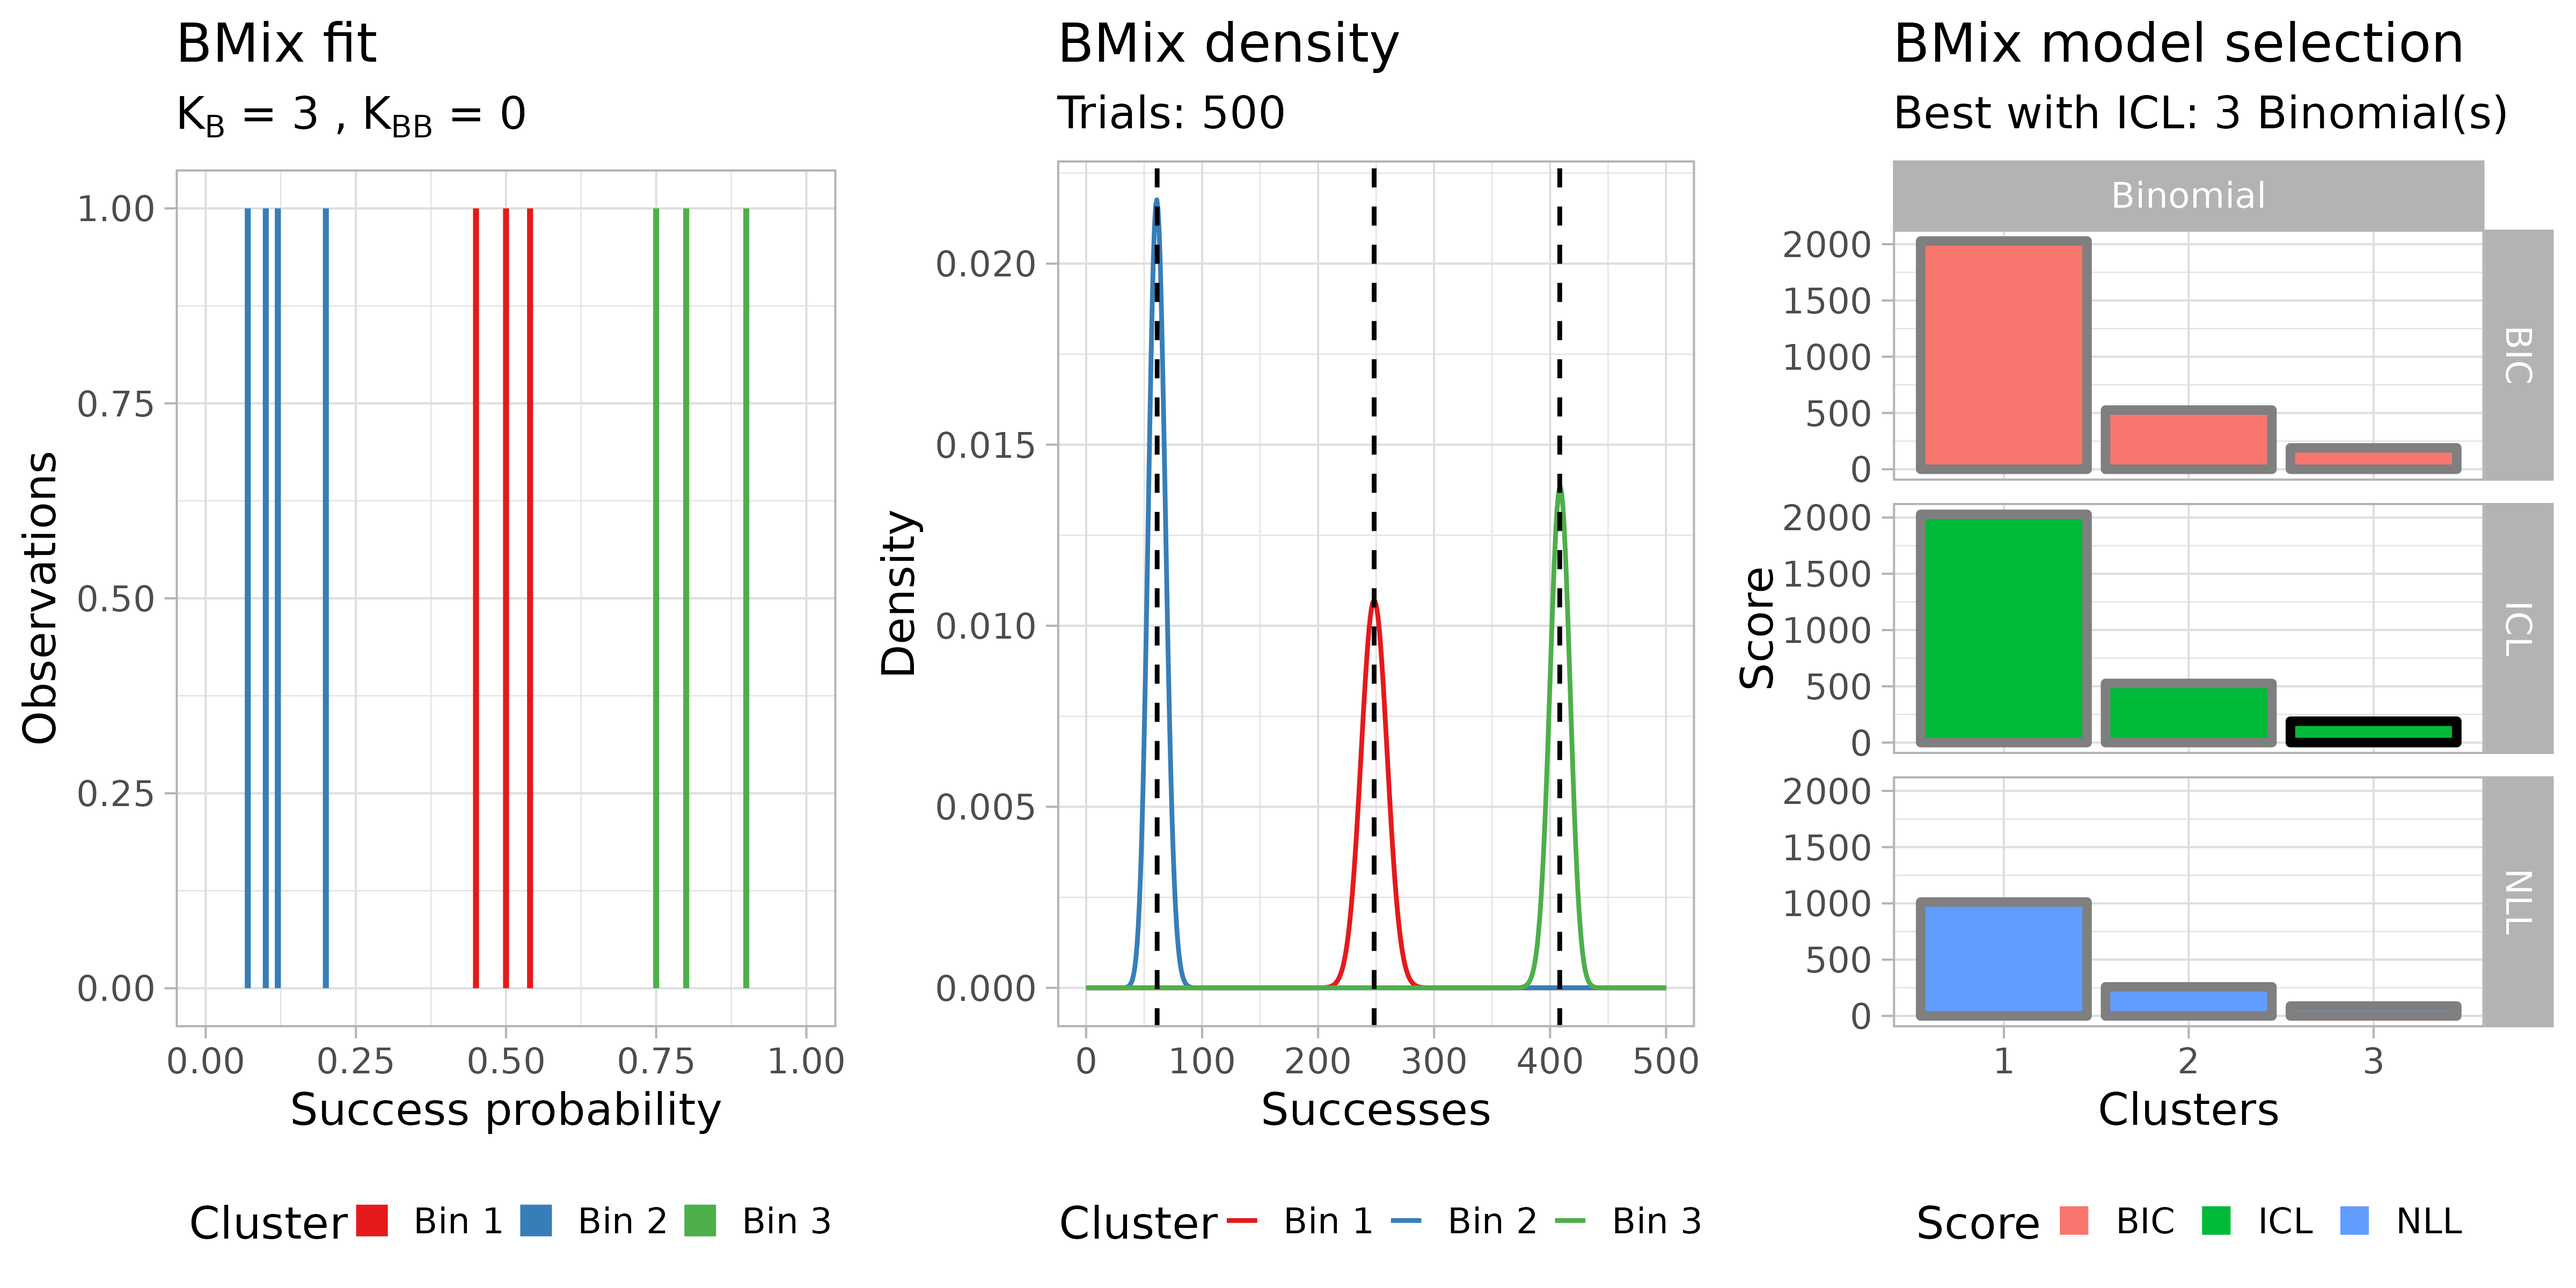
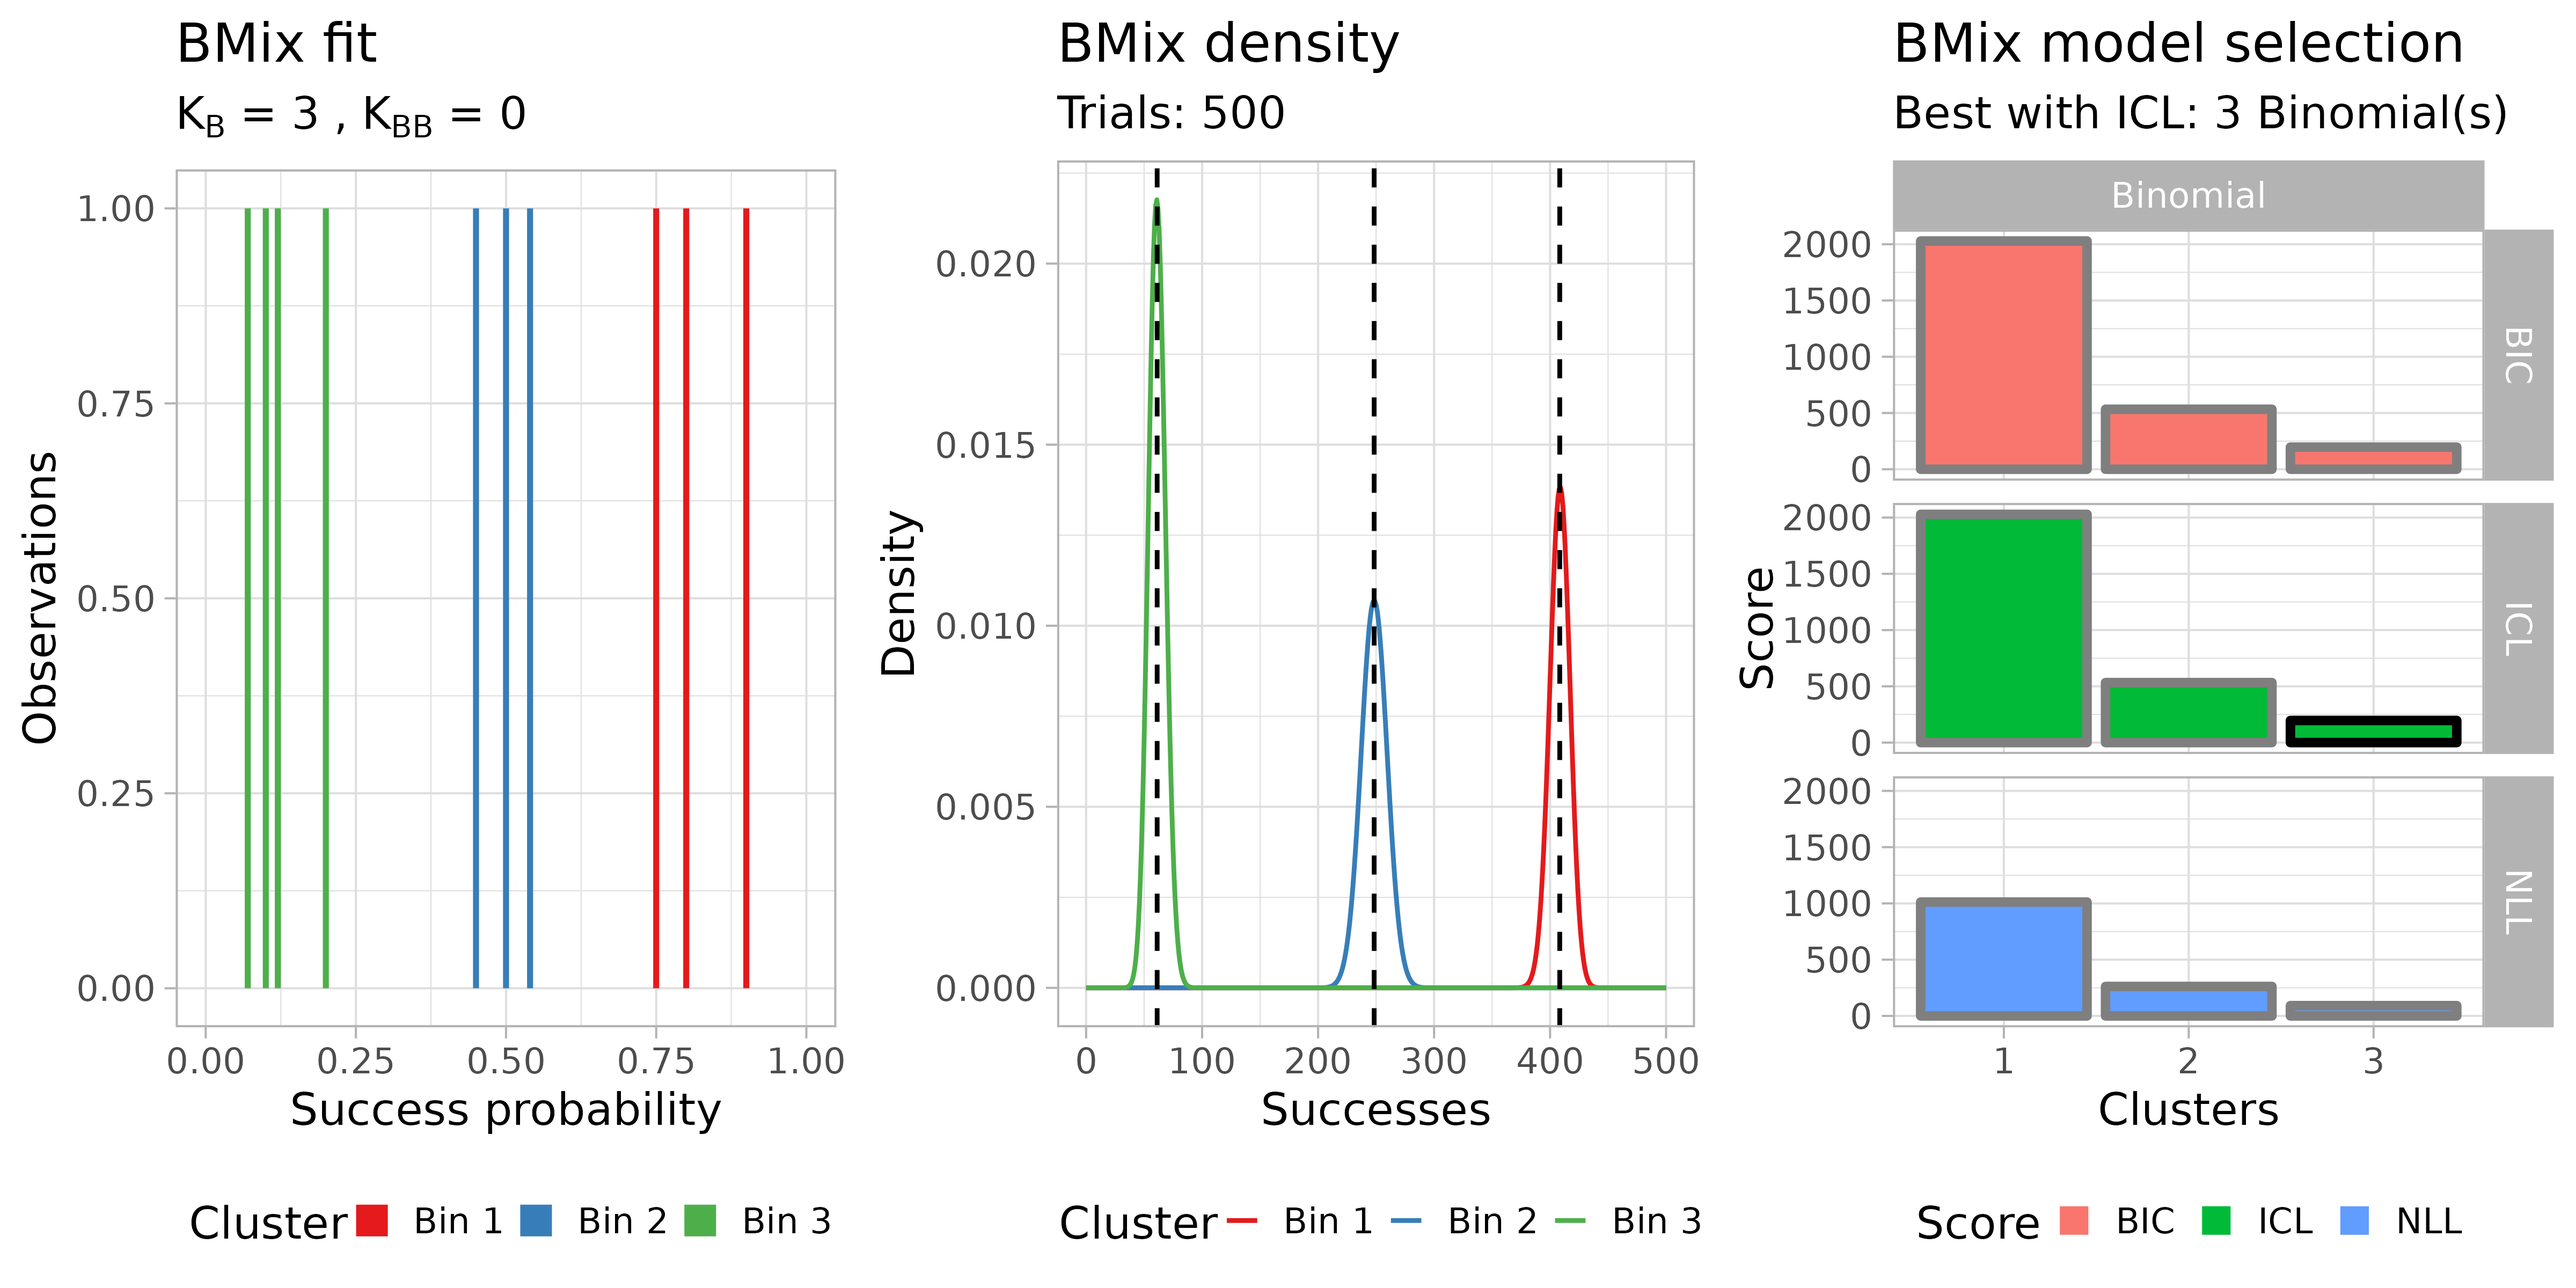
Deploying to gh-pages from @ caravagnalab/TAPACLOTH@d038066db464b46873bbb0af964f8ca02ef53b48 🚀

diff --git a/articles/purity-estimates.html b/articles/purity-estimates.html
@@ -135,11 +135,11 @@
 <span class="co">#&gt; 'crayon::num_ansi_colors' when loading 'easypar'</span>
 <span class="co">#&gt; <span style="color: #00BBBB;">ℹ</span> <span style="font-weight: bold;">Bmix best fit</span> completed in 0 mins</span>
 <span class="co">#&gt; ── <span style="color: #000000; background-color: #BBBB00;">[ BMix ] My BMix model</span> n = 10 with <span style="color: #00BB00;">k = 3</span> component(s) (<span style="color: #00BB00;">3</span> + <span style="color: #00BB00;">0</span>) ───────────────</span>
-<span class="co">#&gt; • Clusters: π = 40% [<span style="color: #BBBB00;">Bin 1</span>], 30% [<span style="color: #BBBB00;">Bin 2</span>], and 30% [<span style="color: #BBBB00;">Bin 3</span>], with π &gt; 0.</span>
-<span class="co">#&gt; • Binomial <span style="color: #00BB00;">Bin 1</span> with mean = 0.1225.</span>
-<span class="co">#&gt; • Binomial <span style="color: #00BB00;">Bin 2</span> with mean = 0.496666666666667.</span>
-<span class="co">#&gt; • Binomial <span style="color: #00BB00;">Bin 3</span> with mean = 0.816666666666667.</span>
-<span class="co">#&gt; <span style="color: #00BBBB;">ℹ</span> Score (model selection): <span style="color: #00BB00;">ICL</span> = 191.16.</span>
+<span class="co">#&gt; • Clusters: π = 40% [<span style="color: #BBBB00;">Bin 2</span>], 30% [<span style="color: #BBBB00;">Bin 1</span>], and 30% [<span style="color: #BBBB00;">Bin 3</span>], with π &gt; 0.</span>
+<span class="co">#&gt; • Binomial <span style="color: #00BB00;">Bin 1</span> with mean = 0.816666666666667.</span>
+<span class="co">#&gt; • Binomial <span style="color: #00BB00;">Bin 2</span> with mean = 0.1225.</span>
+<span class="co">#&gt; • Binomial <span style="color: #00BB00;">Bin 3</span> with mean = 0.496666666666667.</span>
+<span class="co">#&gt; <span style="color: #00BBBB;">ℹ</span> Score (model selection): <span style="color: #00BB00;">ICL</span> = 189.04.</span>
 <span class="co">#&gt; Warning: `guides(&lt;scale&gt; = FALSE)` is deprecated. Please use `guides(&lt;scale&gt; =</span>
 <span class="co">#&gt; "none")` instead.</span>
 <span class="co">#&gt; Warning: Removed 6 rows containing missing values (geom_bar).</span>
@@ -197,11 +197,11 @@
 <span class="co">#&gt; <span style="color: #00BBBB;">ℹ</span> Binomials k_B = <span style="color: #00BB00;">1</span>, <span style="color: #00BB00;">2</span>, and <span style="color: #00BB00;">3</span>, Beta-Binomials k_BB = <span style="color: #00BB00;">0</span>; 6 fits to run.</span>
 <span class="co">#&gt; <span style="color: #00BBBB;">ℹ</span> <span style="font-weight: bold;">Bmix best fit</span> completed in 0 mins</span>
 <span class="co">#&gt; ── <span style="color: #000000; background-color: #BBBB00;">[ BMix ] My BMix model</span> n = 10 with <span style="color: #00BB00;">k = 3</span> component(s) (<span style="color: #00BB00;">3</span> + <span style="color: #00BB00;">0</span>) ───────────────</span>
-<span class="co">#&gt; • Clusters: π = 40% [<span style="color: #BBBB00;">Bin 2</span>], 30% [<span style="color: #BBBB00;">Bin 1</span>], and 30% [<span style="color: #BBBB00;">Bin 3</span>], with π &gt; 0.</span>
-<span class="co">#&gt; • Binomial <span style="color: #00BB00;">Bin 1</span> with mean = 0.496666666666667.</span>
-<span class="co">#&gt; • Binomial <span style="color: #00BB00;">Bin 2</span> with mean = 0.1225.</span>
-<span class="co">#&gt; • Binomial <span style="color: #00BB00;">Bin 3</span> with mean = 0.816666666666667.</span>
-<span class="co">#&gt; <span style="color: #00BBBB;">ℹ</span> Score (model selection): <span style="color: #00BB00;">ICL</span> = 189.94.</span>
+<span class="co">#&gt; • Clusters: π = 40% [<span style="color: #BBBB00;">Bin 3</span>], 30% [<span style="color: #BBBB00;">Bin 1</span>], and 30% [<span style="color: #BBBB00;">Bin 2</span>], with π &gt; 0.</span>
+<span class="co">#&gt; • Binomial <span style="color: #00BB00;">Bin 1</span> with mean = 0.816666666666667.</span>
+<span class="co">#&gt; • Binomial <span style="color: #00BB00;">Bin 2</span> with mean = 0.496666666666667.</span>
+<span class="co">#&gt; • Binomial <span style="color: #00BB00;">Bin 3</span> with mean = 0.1225.</span>
+<span class="co">#&gt; <span style="color: #00BBBB;">ℹ</span> Score (model selection): <span style="color: #00BB00;">ICL</span> = 196.63.</span>
 <span class="co">#&gt; Warning: `guides(&lt;scale&gt; = FALSE)` is deprecated. Please use `guides(&lt;scale&gt; =</span>
 <span class="co">#&gt; "none")` instead.</span>
 <span class="co">#&gt; Warning: Removed 6 rows containing missing values (geom_bar).</span>
